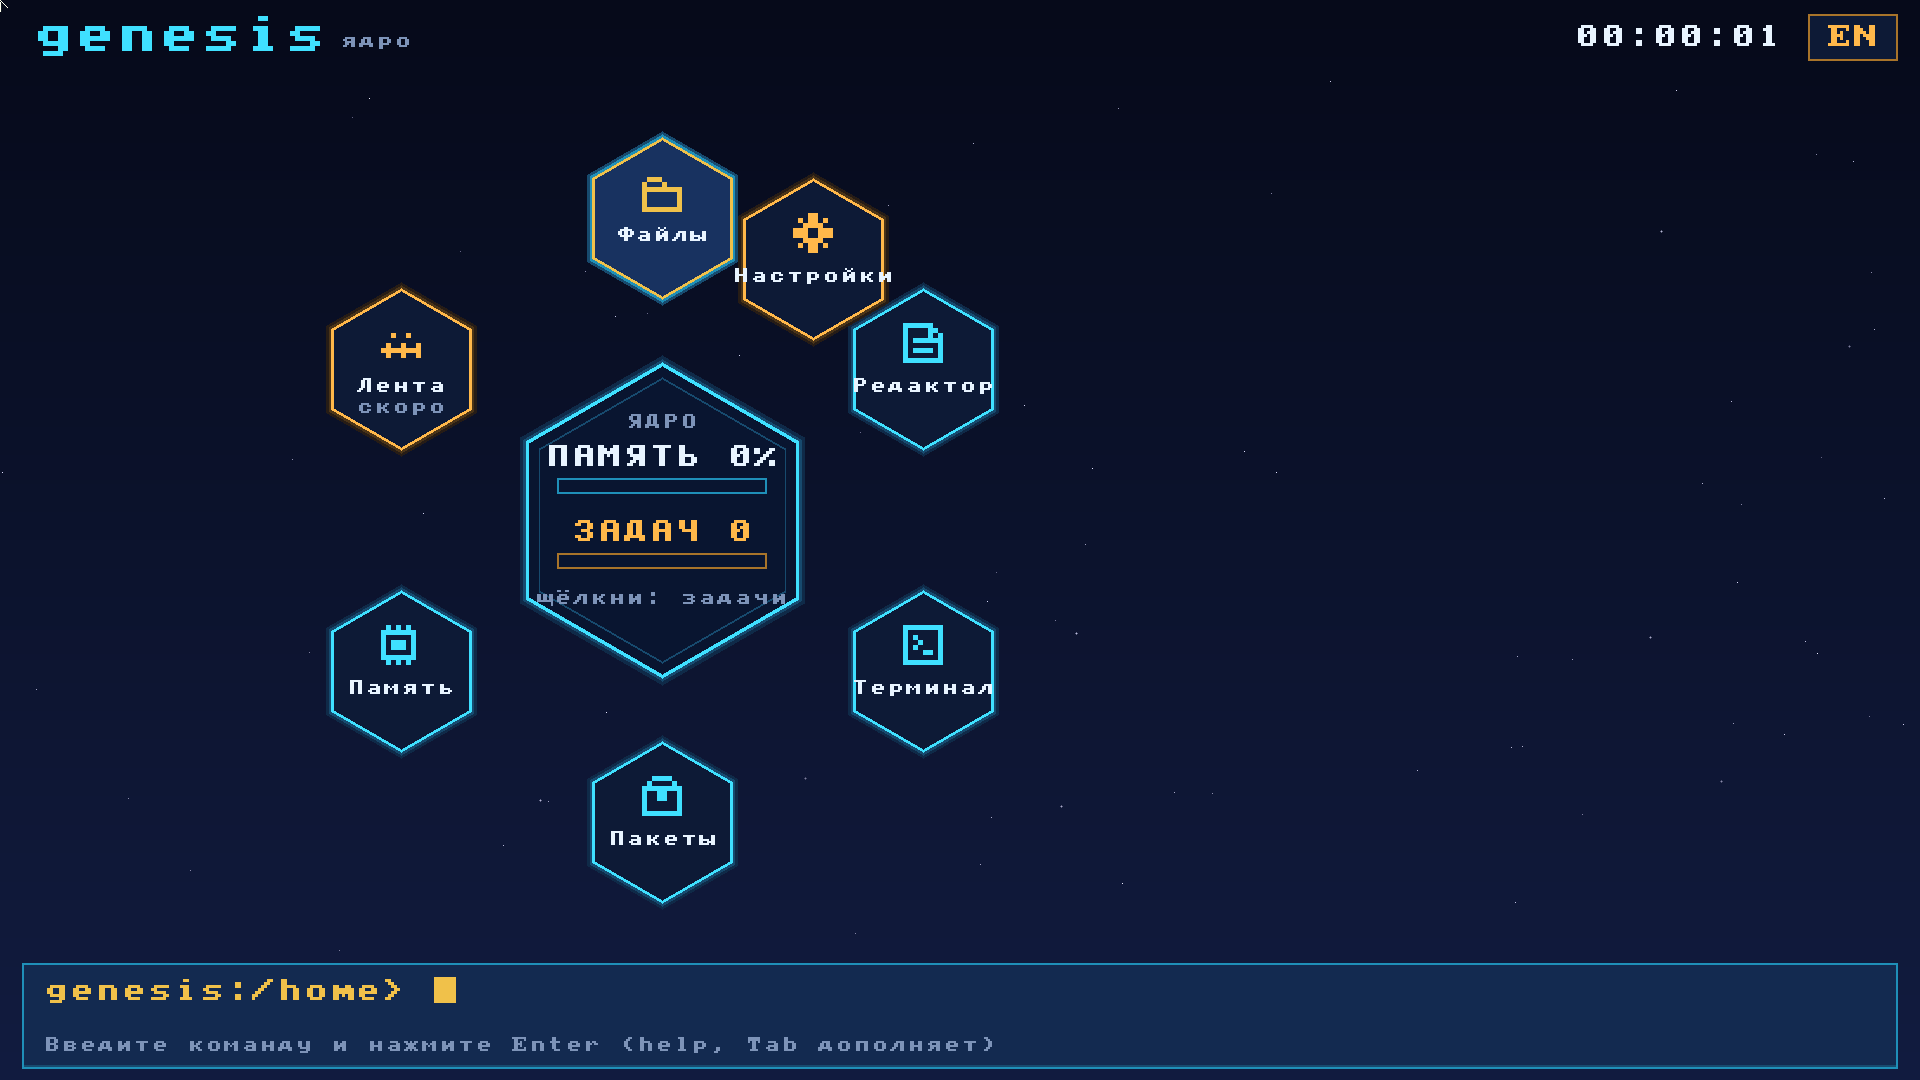
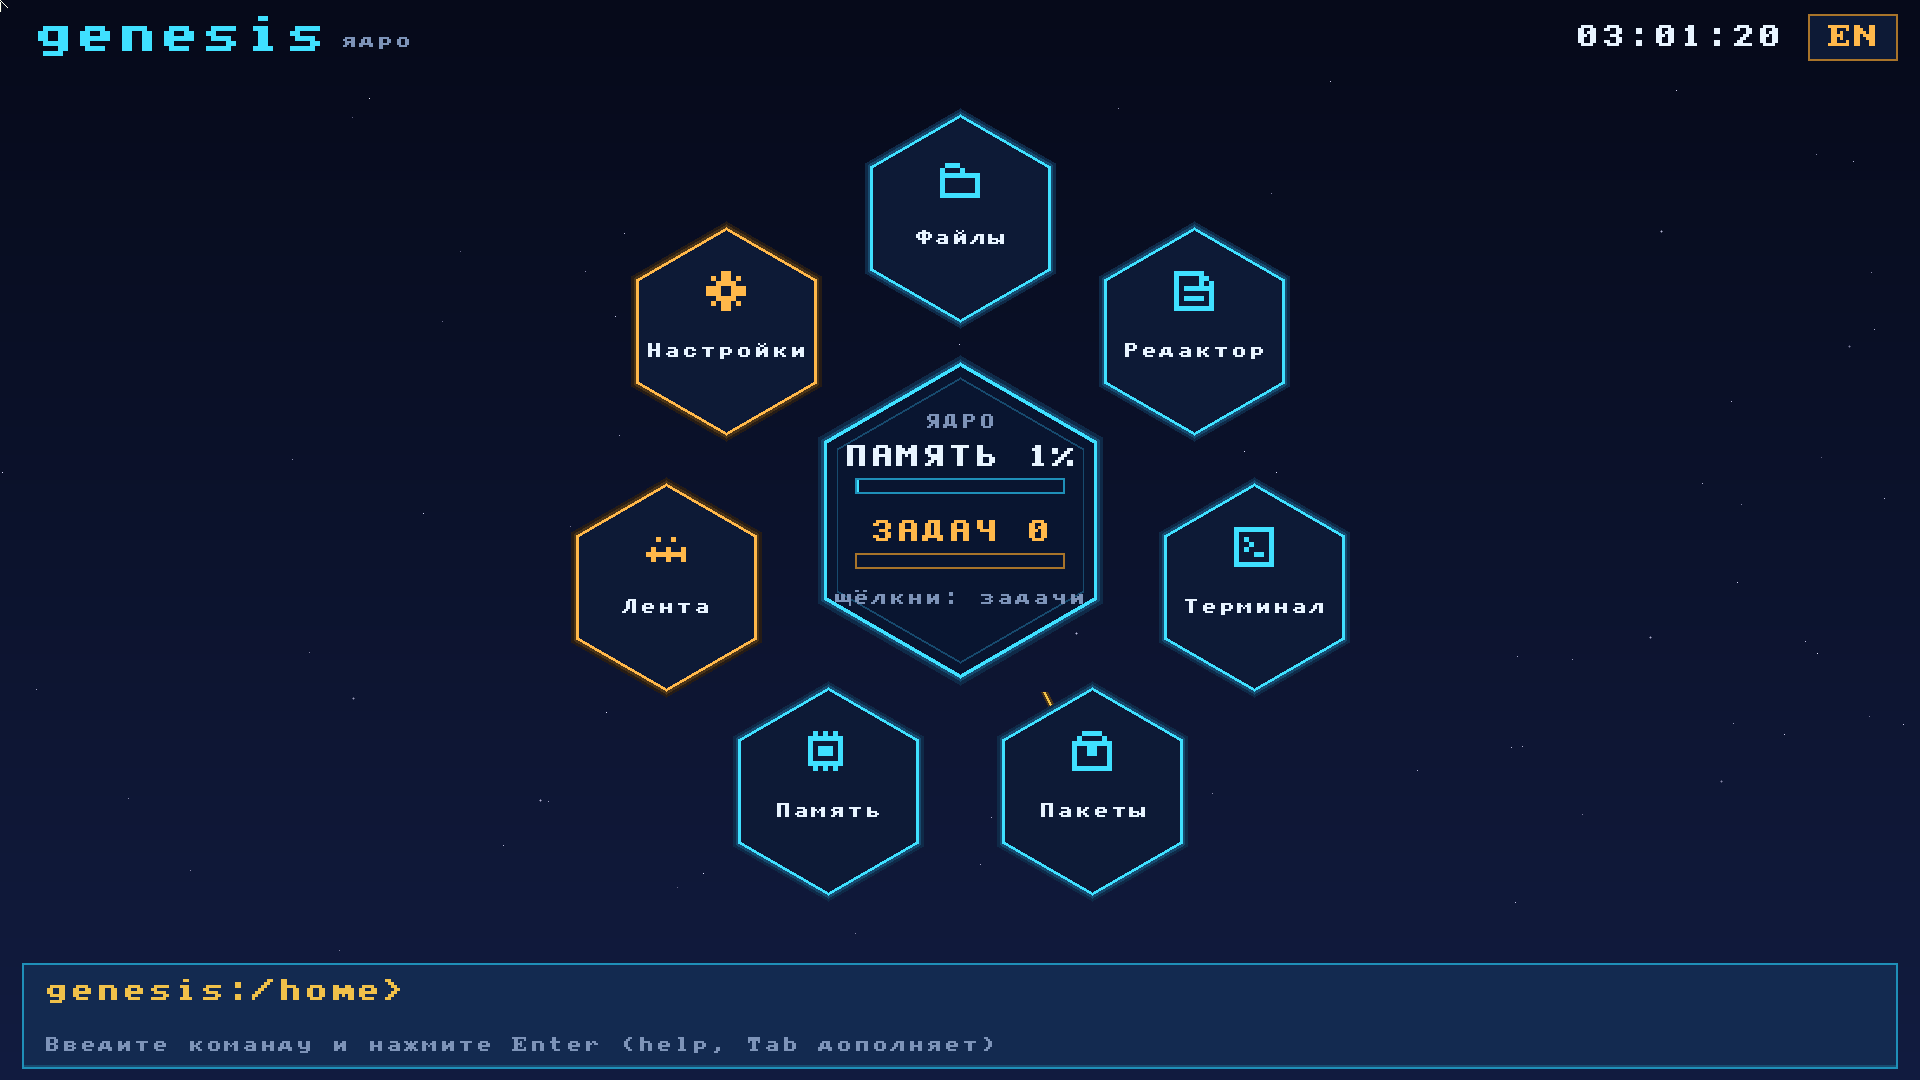
docs: Ядро/Лента screenshots (desktop, phone, TV) and README

diff --git a/README.md b/README.md
@@ -207,7 +207,34 @@ pkg remove strdemo     # удаляет; удалить библиотеку, н
 соты программ. Щелчок по ядру — список задач с кнопкой «стоп» (`kill N`).
 `pkg install` добавляет соту программы, `pin ПАПКА` / `unpin ПАПКА` — соту
 папки (`/home/.pins`). Строка внизу выполняет любую команду, подсвечивает
-подходящую соту, Tab дополняет команды и пути, стрелки листают историю.
+подходящую соту, Tab дополняет команды и пути, PgUp/PgDn листают историю.
+
+- **Где что:** ядро стоит по центру над строкой команд, соты — ровным
+  кольцом вокруг (первая сверху, левая и правая половины зеркальны). Когда
+  справа открыта панель, кольцо сдвигается в свободную часть экрана.
+- **Часы** берут время из CMOS RTC и идут; по умолчанию UTC+3, `tz +5`,
+  `tz -3:30`, `tz` — показать пояс. **Память** в ядре — реальная доля
+  занятой RAM (ядро ОС + куча) от свободной памяти из карты Multiboot.
+- **Стрелки:** первая стрелка ставит фокус на ядро, дальше ←↑→↓ ходят по
+  сотам (и по клавишам цифрового блока без NumLock — так их шлёт QEMU на
+  Windows). В открытой панели фокус сразу на первой строке, ←/→ уходят из
+  панели к сотам и обратно, Enter — открыть, Esc — закрыть.
+- **Лента:** журнал всех действий (`/home/.journal`, последние 40):
+  команды, открытые/сохранённые файлы, `pkg install/remove`, запуск и
+  остановка программ. Сота «Лента» (или `feed`, `feed pkg|files|editor|term|prog`)
+  открывает линию времени с карточками и светящейся отметкой «Сейчас»;
+  стрелки ходят по карточкам и листают, Enter открывает файл снова или
+  повторяет команду (для `rm`, `pkg remove`, `kill`, … — второй Enter,
+  Esc — отмена). Сверху фильтры: Все, Файлы, Редактор, Терминал, Пакеты,
+  Программы. В каждой панели есть кнопка «В ленту» — Лента сразу с фильтром
+  этой панели. На телефоне линия вертикальная.
+- **Связи:** когда программа берёт функцию из библиотеки, на секунду-две
+  вспыхивает линия от её соты к соте «Пакеты» (у библиотек своей соты нет),
+  а пока программа работает — линия к ядру (`link: strdemo -> strlib`).
+- **Сосед по Genesis Link:** если вторая genesis ответила (`ping`), слева
+  вверху появляется маленькое ядро «СОСЕД». Щелчок/Enter по нему — выбрать
+  файл в /home, и он уйдёт соседу в `/home/inbox/` (кусками по 112 байт с
+  подтверждением каждого и контрольной суммой). Из оболочки: `send ФАЙЛ`.
 
 - Телефон: `desktop 480x800` (или `npm run look -- --portrait`) — ядро сверху,
   соты сотами внизу, панели на весь экран с кнопкой «< Назад».
@@ -216,4 +243,7 @@ pkg remove strdemo     # удаляет; удалить библиотеку, н
   Esc/Backspace — назад.
 
 ![Ядро](docs/ui-core.png)
+![Лента](docs/ui-feed.png)
 ![Ядро на телефоне](docs/ui-core-portrait.png)
+![Лента на телефоне](docs/ui-feed-portrait.png)
+![Ядро на телевизоре](docs/ui-core-tv.png)
